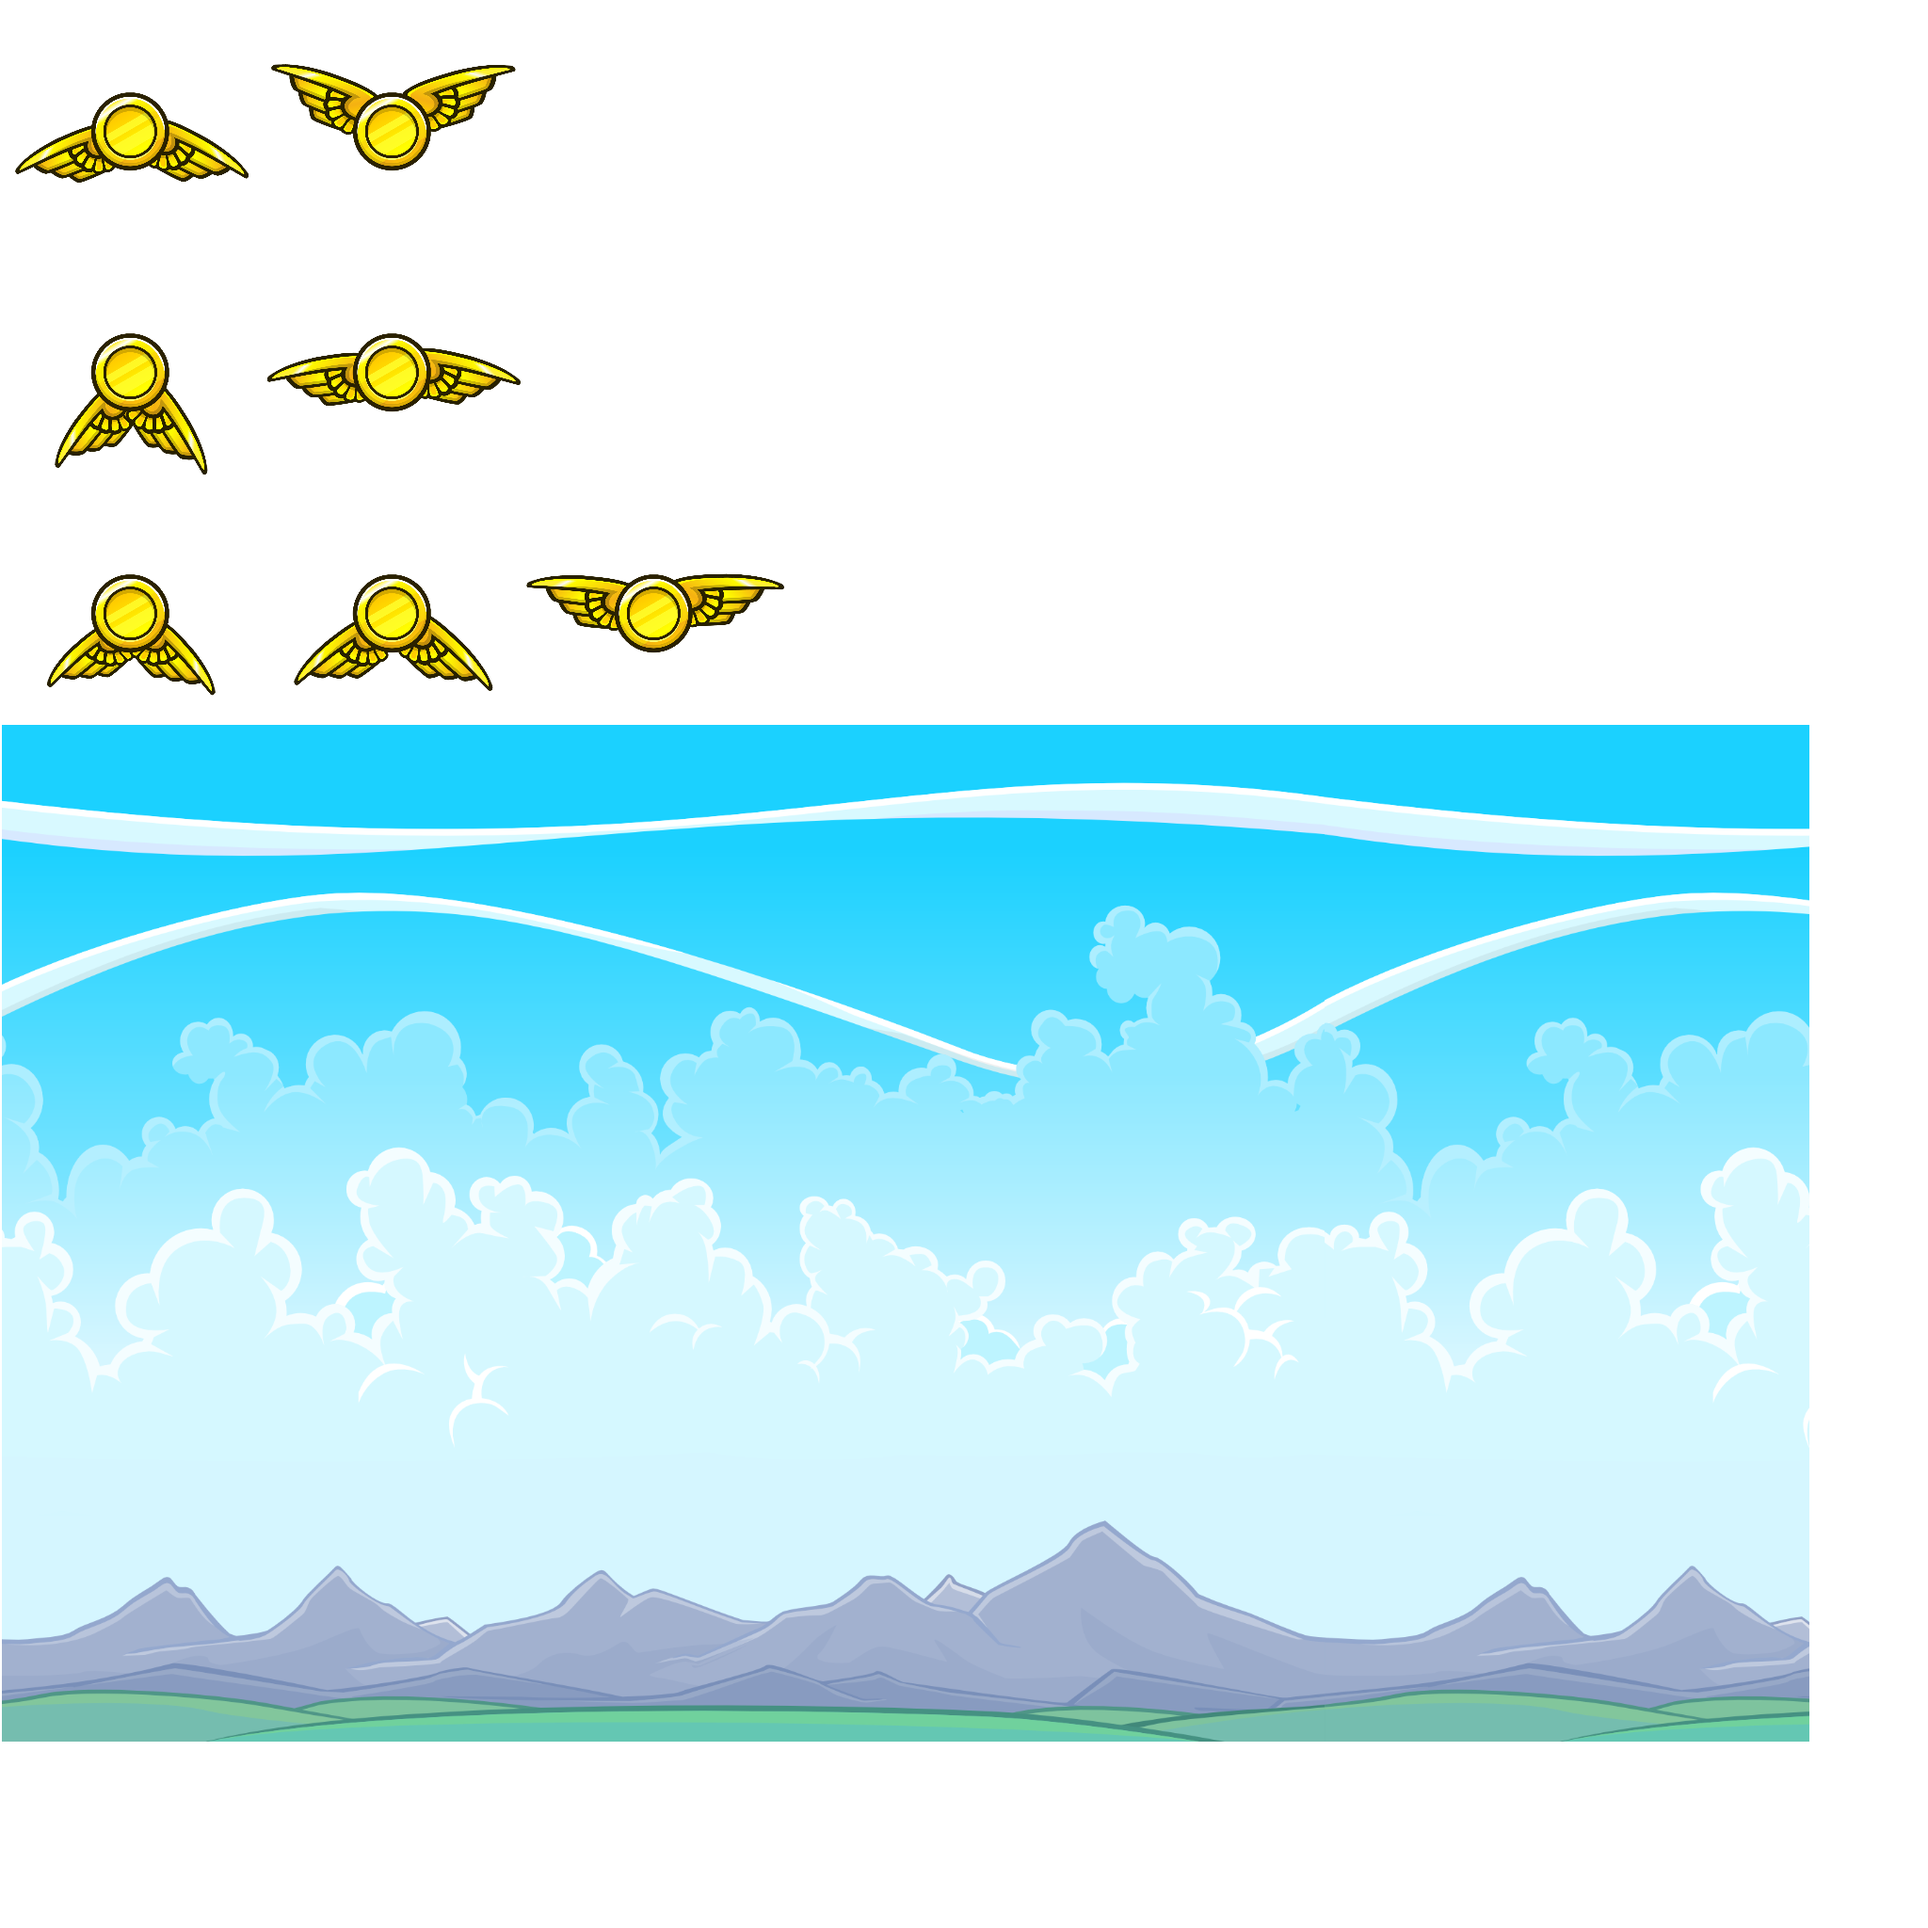
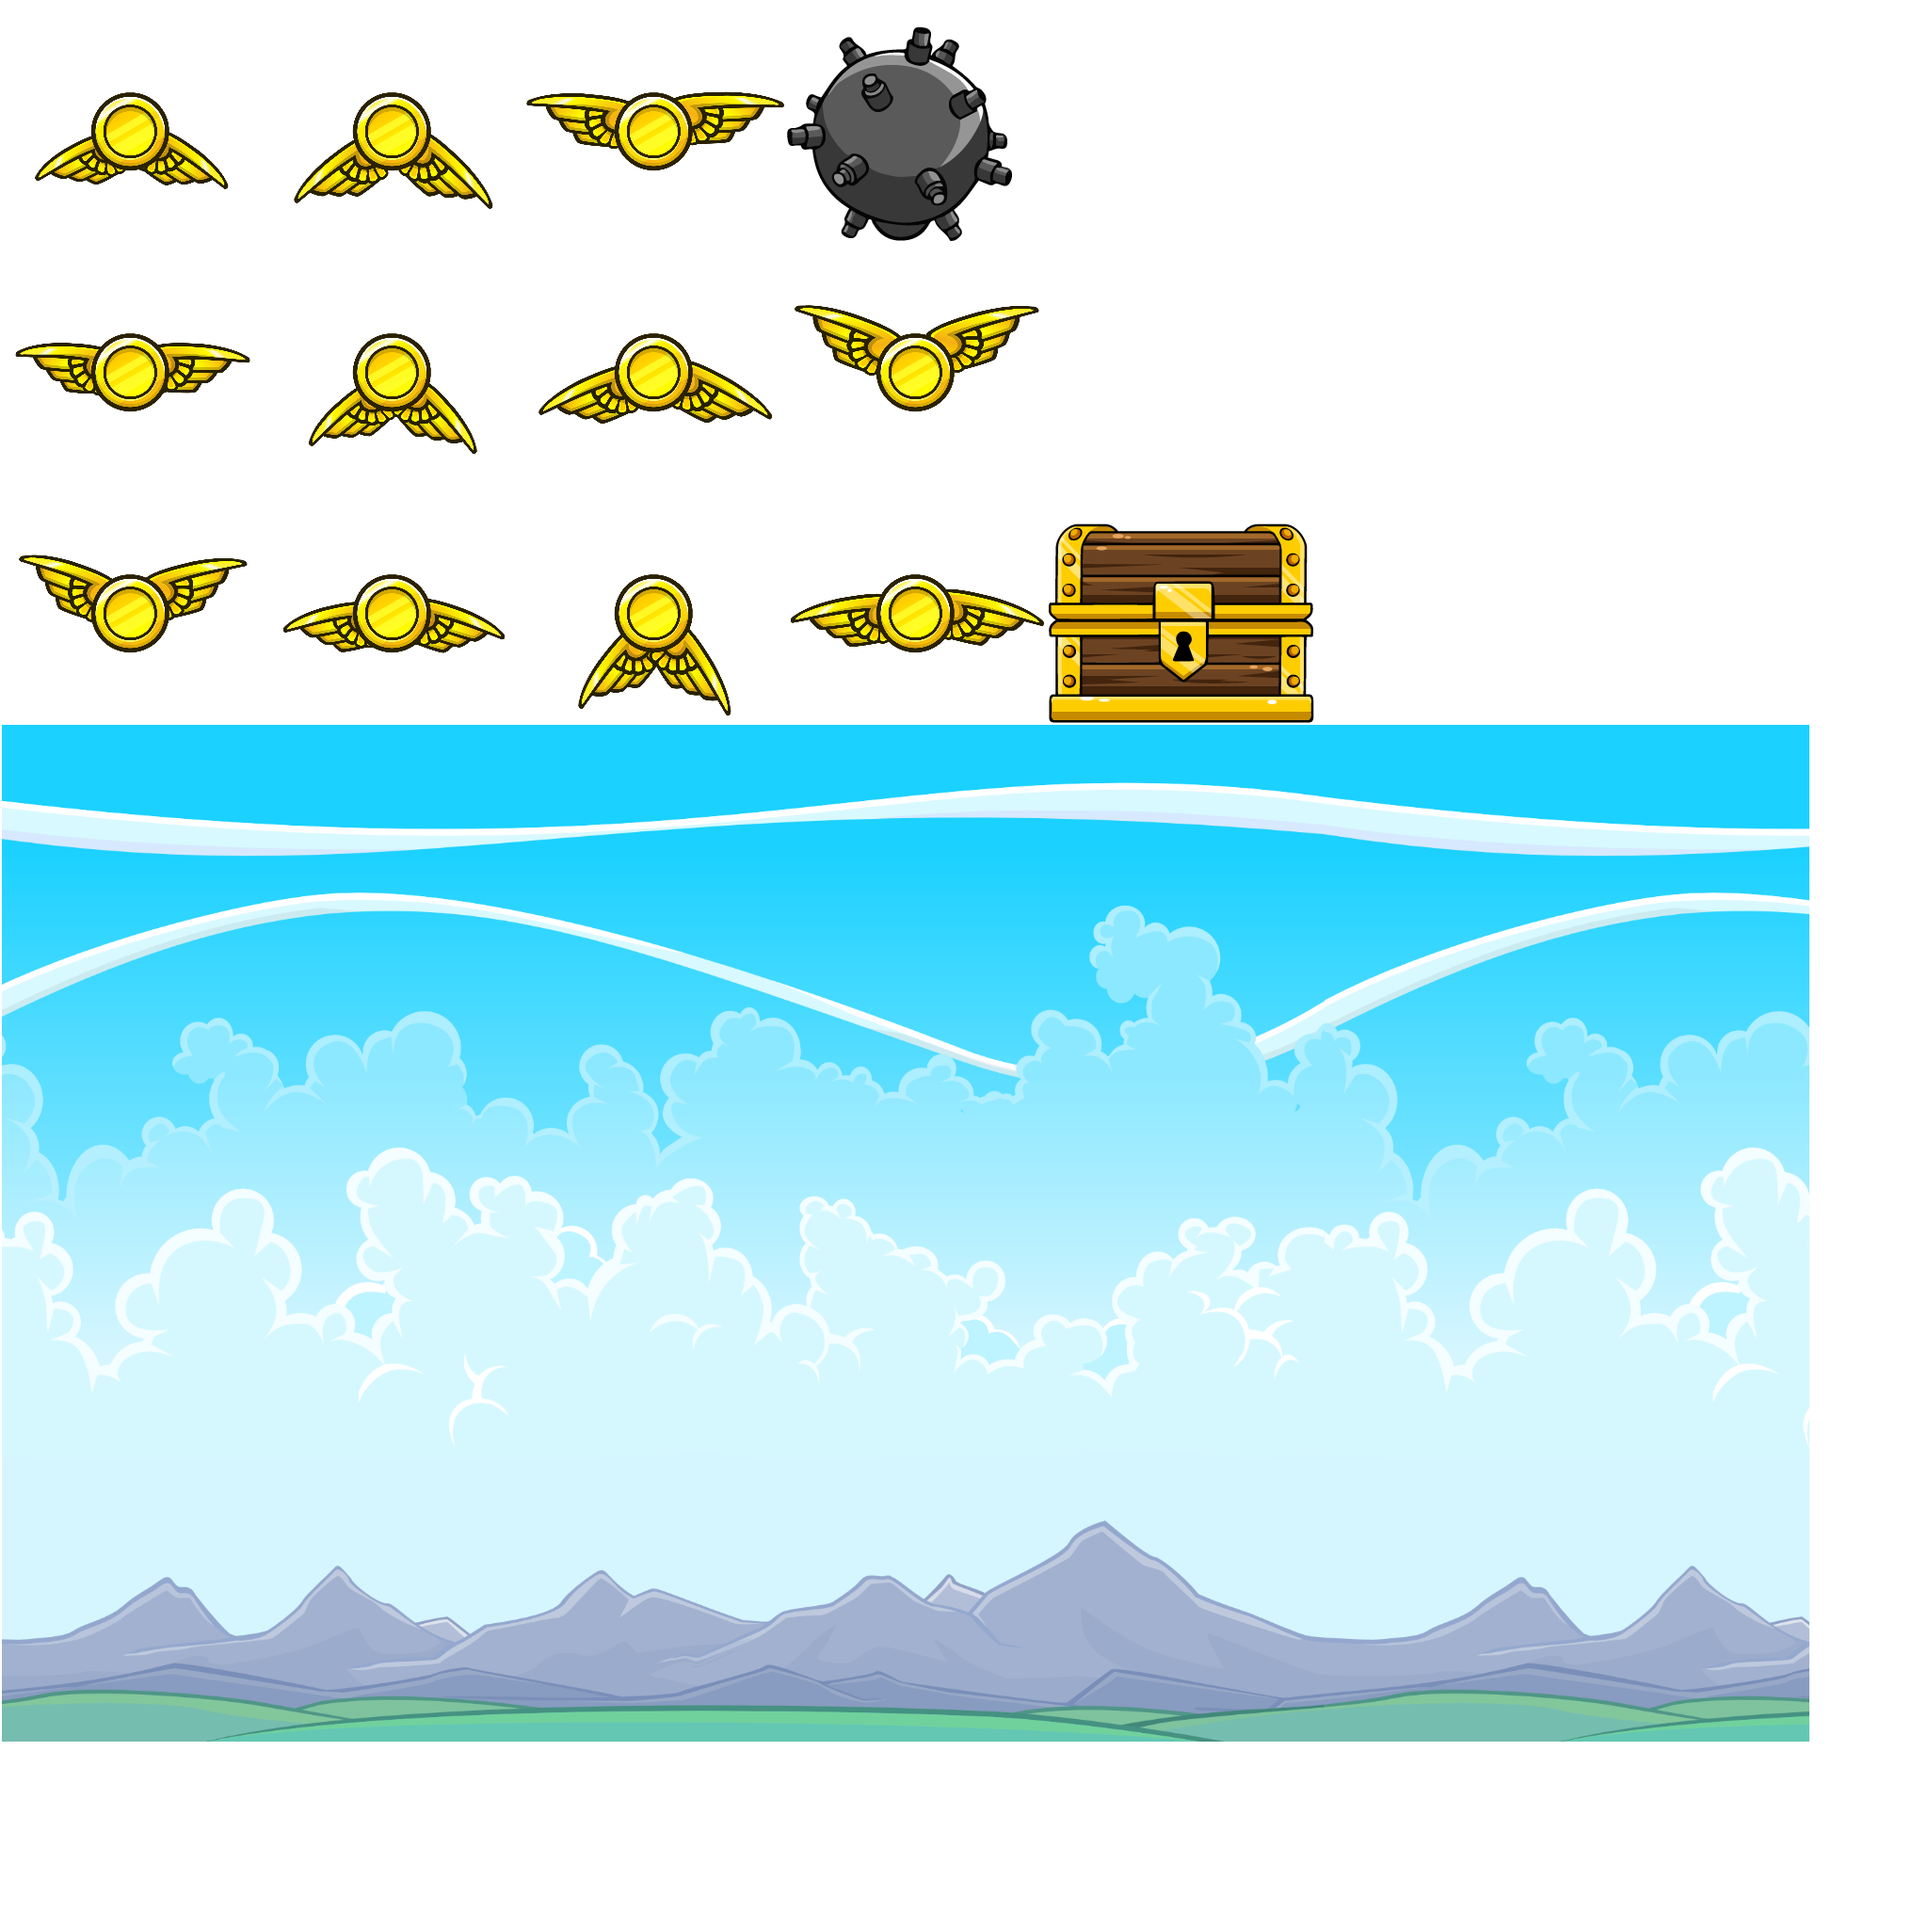
Animate hero

diff --git a/core/src/io/cucumber/view/ChooseLevelScreen.kt b/core/src/io/cucumber/view/ChooseLevelScreen.kt
@@ -8,7 +8,6 @@ import com.badlogic.gdx.scenes.scene2d.utils.ClickListener
 import com.badlogic.gdx.utils.Array
 import io.cucumber.Game
 import io.cucumber.model.actor.shape.AnimatedCircle
-import io.cucumber.model.actor.shape.SimpleCircle
 import io.cucumber.model.component.button.ImageButton
 import io.cucumber.model.component.button.SwitchImageButton
 import io.cucumber.model.component.text.TextLabel
@@ -59,7 +58,7 @@ class ChooseLevelScreen(
             CHOOSE_BUTTON_HEIGHT,
             this.levelAssets.rightButton
     )
-    private var hero: SimpleCircle = SimpleCircle(
+    private var hero: AnimatedCircle = AnimatedCircle(
             SCREEN_WIDTH / 2 - SCREEN_WIDTH / 8,
             SCREEN_HEIGHT / 2 - SCREEN_HEIGHT / 4,
             HERO_SIZE,
@@ -145,7 +144,7 @@ class ChooseLevelScreen(
 
     private fun reloadLevel() {
         chooseButton.setSwitcher(levelAssets.isActive)
-        hero.setRegion(levelAssets.hero)
+        hero.setAnimation(levelAssets.hero)
         enemy.setAnimation(levelAssets.enemy)
         bonus.setAnimation(levelAssets.bonus)
 

diff --git a/core/src/io/cucumber/model/level/LevelAssets.java b/core/src/io/cucumber/model/level/LevelAssets.java
@@ -10,7 +10,7 @@ import static com.badlogic.gdx.graphics.g2d.Animation.PlayMode.LOOP;
 public class LevelAssets {
 
     private final int id;
-    private final TextureAtlas.AtlasRegion hero;
+    private final Animation<TextureRegion> hero;
     private final Animation<TextureRegion> enemy;
     private final Animation<TextureRegion> bonus;
     private final TextureAtlas.AtlasRegion background;
@@ -19,10 +19,14 @@ public class LevelAssets {
     private boolean active;
 
     public LevelAssets(TextureAtlas atlas, CommonAssets commonAssets, int id, String hero,
-                       String enemy, float enemyFrameDuration, String bonus, float bonusFrameDuration,
-                       String background, int cost, boolean active) {
+                       float heroFrameDuration, String enemy, float enemyFrameDuration, String bonus,
+                       float bonusFrameDuration, String background, int cost, boolean active) {
         this.id = id;
-        this.hero = atlas.findRegion(hero);
+        this.hero = new Animation<TextureRegion>(
+                heroFrameDuration,
+                atlas.findRegions(hero),
+                LOOP
+        );
         this.enemy = new Animation<TextureRegion>(
                 enemyFrameDuration,
                 atlas.findRegions(enemy),
@@ -41,15 +45,17 @@ public class LevelAssets {
     }
 
     public LevelAssets(TextureAtlas atlas, CommonAssets commonAssets, int id, String hero,
-                       String enemy, float enemyFrameDuration, String bonus, float bonusFrameDuration, String background) {
-        this(atlas, commonAssets, id, hero, enemy, enemyFrameDuration, bonus, bonusFrameDuration, background, 0, true);
+                       float heroFrameDuration, String enemy, float enemyFrameDuration,
+                       String bonus, float bonusFrameDuration, String background) {
+        this(atlas, commonAssets, id, hero, heroFrameDuration, enemy, enemyFrameDuration, bonus,
+                bonusFrameDuration, background, 0, true);
     }
 
     public int getId() {
         return id;
     }
 
-    public TextureAtlas.AtlasRegion getHero() {
+    public Animation<TextureRegion> getHero() {
         return hero;
     }
 

diff --git a/core/src/io/cucumber/model/actor/character/Hero.java b/core/src/io/cucumber/model/actor/character/Hero.java
@@ -1,8 +1,9 @@
 package io.cucumber.model.actor.character;
 
+import com.badlogic.gdx.graphics.g2d.Animation;
 import com.badlogic.gdx.graphics.g2d.TextureRegion;
 
-import io.cucumber.model.base.DynamicActor;
+import io.cucumber.model.base.AnimationActor;
 
 import static io.cucumber.utils.constant.GameConstants.DEFAULT_ACCELERATION;
 import static io.cucumber.utils.constant.GameConstants.DOWN_DIRECTION;
@@ -10,7 +11,7 @@ import static io.cucumber.utils.constant.GameConstants.LEFT_DIRECTION;
 import static io.cucumber.utils.constant.GameConstants.NOT_MOVE;
 import static io.cucumber.utils.constant.GameConstants.RIGHT_DIRECTION;
 
-public class Hero extends DynamicActor {
+public class Hero extends AnimationActor {
 
     private byte directionY;
     private byte directionX;
@@ -18,8 +19,8 @@ public class Hero extends DynamicActor {
     private float acceleration;
 
     public Hero(float x, float y, float size, float horizontalVelocity, float verticalVelocity,
-                TextureRegion region) {
-        super(x, y, size, horizontalVelocity, verticalVelocity, region, RIGHT_DIRECTION);
+                Animation<TextureRegion> animation) {
+        super(x, y, size, horizontalVelocity, verticalVelocity, animation, RIGHT_DIRECTION);
         this.directionY = DOWN_DIRECTION;
         this.directionX = NOT_MOVE;
         this.previousDirectionX = NOT_MOVE;
@@ -27,8 +28,8 @@ public class Hero extends DynamicActor {
     }
 
     public Hero init(float x, float y, float size, float horizontalVelocity, float verticalVelocity,
-                     TextureRegion region) {
-        super.init(x, y, size, horizontalVelocity, verticalVelocity, region, RIGHT_DIRECTION);
+                     Animation<TextureRegion> animation) {
+        super.init(x, y, size, horizontalVelocity, verticalVelocity, animation, RIGHT_DIRECTION);
         this.directionY = DOWN_DIRECTION;
         this.directionX = NOT_MOVE;
         this.previousDirectionX = NOT_MOVE;

diff --git a/core/src/io/cucumber/service/manager/LevelManager.java b/core/src/io/cucumber/service/manager/LevelManager.java
@@ -10,6 +10,7 @@ import io.cucumber.model.level.LevelAssets;
 
 import static io.cucumber.utils.constant.GameConstants.BONUS_ANIMATION_FRAME_DURATION;
 import static io.cucumber.utils.constant.GameConstants.ENEMY_ANIMATION_FRAME_DURATION;
+import static io.cucumber.utils.constant.GameConstants.HERO_ANIMATION_FRAME_DURATION;
 import static io.cucumber.utils.constant.GameConstants.IS_ACTIVE_PATTERN;
 import static io.cucumber.utils.constant.GameConstants.PREFERENCE_NAME;
 
@@ -47,6 +48,7 @@ public class LevelManager {
                 commonAssets,
                 0,
                 "hero",
+                HERO_ANIMATION_FRAME_DURATION,
                 "enemy",
                 ENEMY_ANIMATION_FRAME_DURATION,
                 "bonus",
@@ -58,6 +60,7 @@ public class LevelManager {
                 commonAssets,
                 1,
                 "ghost_hero",
+                HERO_ANIMATION_FRAME_DURATION,
                 "ghost_enemy",
                 ENEMY_ANIMATION_FRAME_DURATION,
                 "ghost_bonus",
@@ -71,6 +74,7 @@ public class LevelManager {
                 commonAssets,
                 2,
                 "sea_hero",
+                HERO_ANIMATION_FRAME_DURATION,
                 "sea_enemy",
                 ENEMY_ANIMATION_FRAME_DURATION,
                 "sea_bonus",
@@ -84,6 +88,7 @@ public class LevelManager {
                 commonAssets,
                 3,
                 "sky_hero",
+                HERO_ANIMATION_FRAME_DURATION,
                 "sky_enemy",
                 ENEMY_ANIMATION_FRAME_DURATION,
                 "sky_bonus",
@@ -97,6 +102,7 @@ public class LevelManager {
                 commonAssets,
                 4,
                 "space_hero",
+                HERO_ANIMATION_FRAME_DURATION,
                 "space_enemy",
                 ENEMY_ANIMATION_FRAME_DURATION,
                 "space_bonus",

diff --git a/core/src/io/cucumber/service/factory/HeroFactory.java b/core/src/io/cucumber/service/factory/HeroFactory.java
@@ -1,5 +1,6 @@
 package io.cucumber.service.factory;
 
+import com.badlogic.gdx.graphics.g2d.Animation;
 import com.badlogic.gdx.graphics.g2d.TextureRegion;
 import com.badlogic.gdx.utils.Pools;
 
@@ -16,14 +17,14 @@ public class HeroFactory {
         Pools.set(Hero.class, new HeroPool());
     }
 
-    public static Hero create(float x, float y, TextureRegion region) {
+    public static Hero create(float x, float y, Animation<TextureRegion> animation) {
         return Pools.obtain(Hero.class).init(
                 x,
                 y,
                 HERO_SIZE,
                 HERO_HORIZONTAL_VELOCITY,
                 -1 * HERO_VERTICAL_VELOCITY,
-                region
+                animation
         );
     }
 

diff --git a/core/src/io/cucumber/pool/HeroPool.java b/core/src/io/cucumber/pool/HeroPool.java
@@ -1,5 +1,6 @@
 package io.cucumber.pool;
 
+import com.badlogic.gdx.graphics.g2d.Animation;
 import com.badlogic.gdx.graphics.g2d.TextureRegion;
 
 import io.cucumber.model.actor.character.Hero;
@@ -12,6 +13,6 @@ public class HeroPool extends ActorPool<Hero> {
 
     @Override
     protected Hero newObject() {
-        return new Hero(0f, 0f, 0f, 0f, 0f, new TextureRegion());
+        return new Hero(0f, 0f, 0f, 0f, 0f, new Animation<>(0f, new TextureRegion()));
     }
 }

diff --git a/core/src/io/cucumber/utils/constant/GameConstants.java b/core/src/io/cucumber/utils/constant/GameConstants.java
@@ -94,6 +94,7 @@ public class GameConstants {
     public static final String DEFAULT_FONT = "fonts/font.ttf";
 
     // Animation
+    public static final float HERO_ANIMATION_FRAME_DURATION = 0.033f;
     public static final float ENEMY_ANIMATION_FRAME_DURATION = 0.033f;
     public static final float BONUS_ANIMATION_FRAME_DURATION = 0.033f;
 
